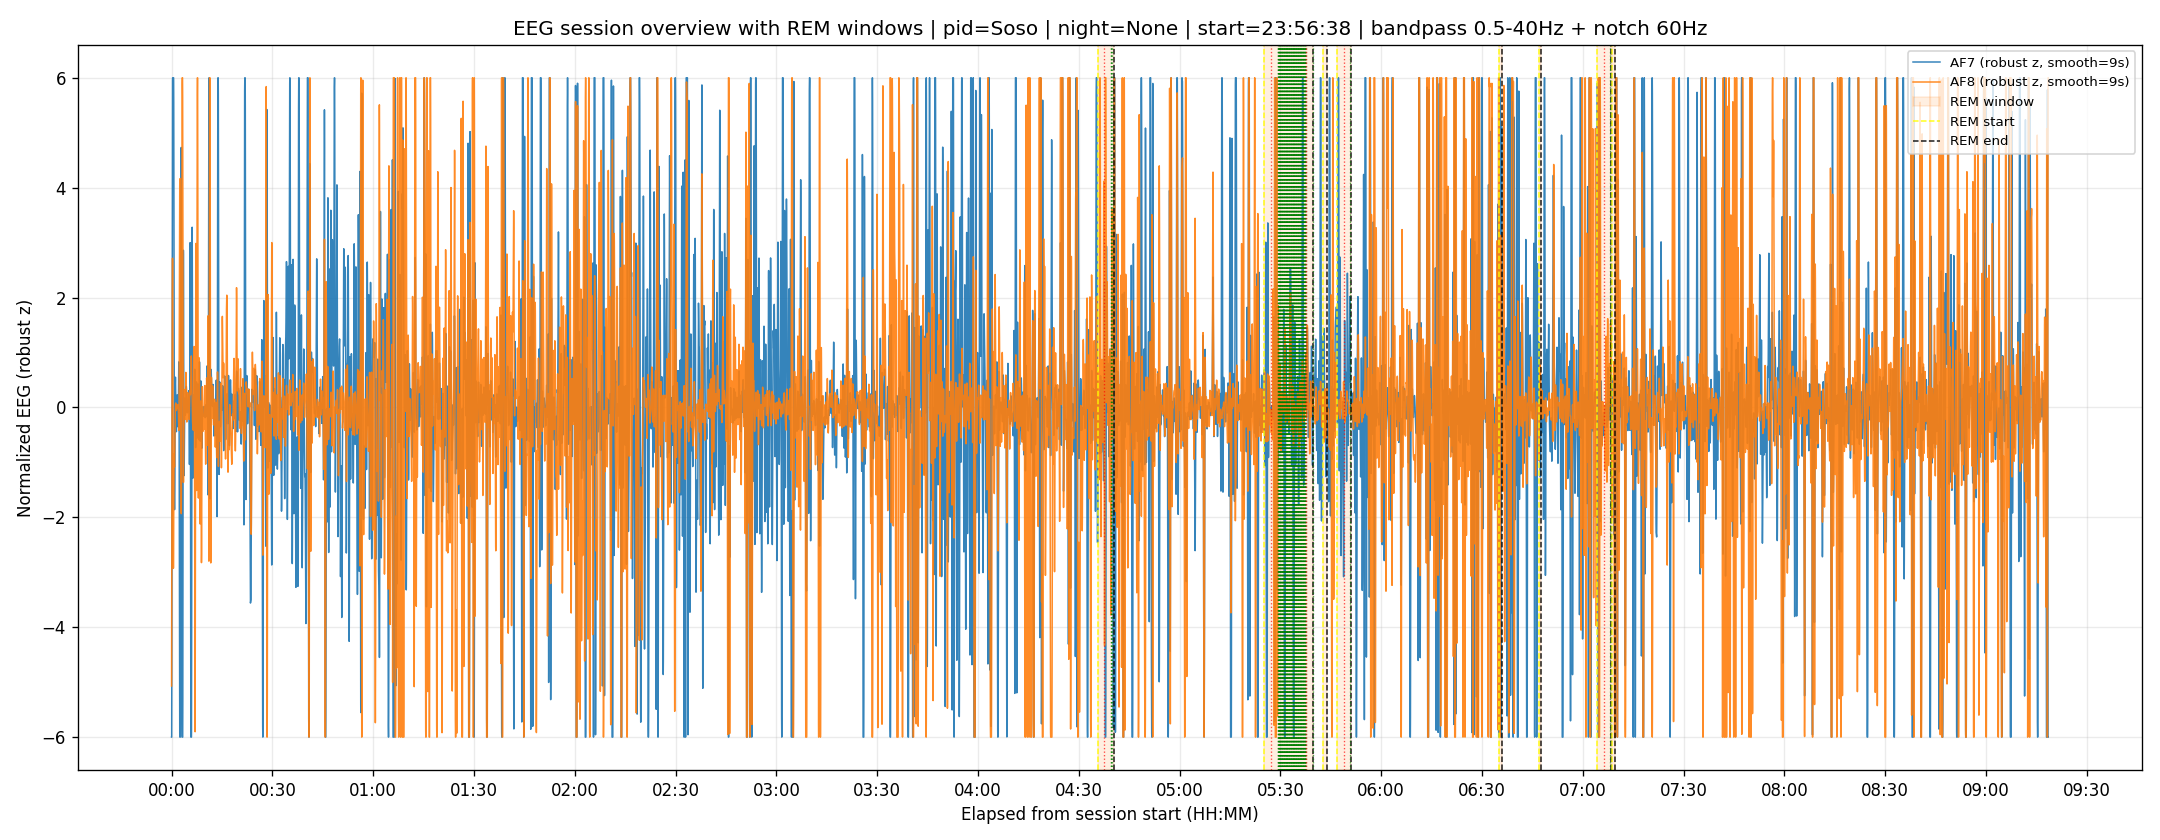
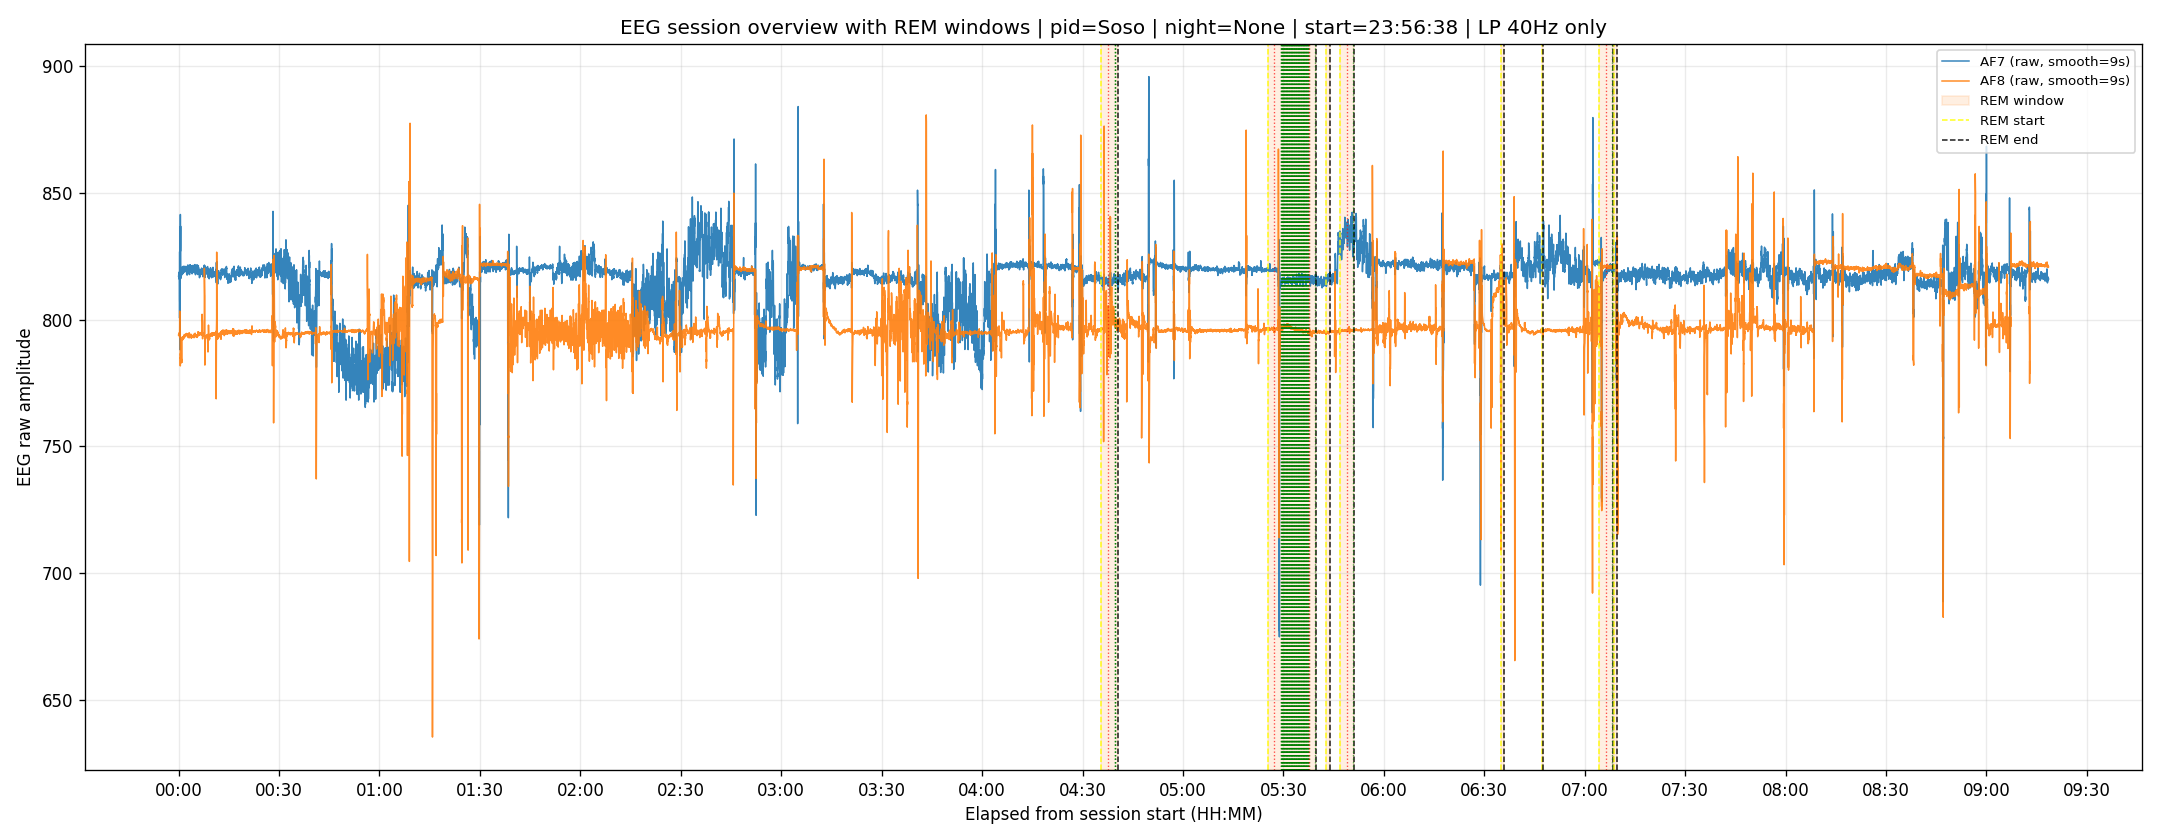
REM logic adapted

diff --git a/plot/plot_eeg_rem.py b/plot/plot_eeg_rem.py
@@ -4,7 +4,7 @@ Plot EEG by REM phase.
 
 For each REM episode (optionally only those with both disruptive+induction cues):
 - x-axis: clock time during the REM phase
-- y-axis: EEG RAW_AF7 and RAW_AF8
+- y-axis: EEG RAW_AF7 and RAW_AF8 (raw with optional LP only)
 - cue markers/labels overlaid at cue times
 """
 
@@ -41,19 +41,6 @@ def in_wrapped_window(sec_of_day: float, start_sec: float, end_sec: float) -> bo
     if end_sec >= start_sec:
         return start_sec <= sec_of_day <= end_sec
     return sec_of_day >= start_sec or sec_of_day <= end_sec
-
-
-def robust_zscore(series: pd.Series) -> pd.Series:
-    """Robust centering/scaling (median + MAD), common for EEG visualization."""
-    vals = pd.to_numeric(series, errors="coerce").astype(float)
-    med = float(np.nanmedian(vals))
-    mad = float(np.nanmedian(np.abs(vals - med)))
-    scale = 1.4826 * mad
-    if not np.isfinite(scale) or scale < 1e-9:
-        scale = float(np.nanstd(vals))
-    if not np.isfinite(scale) or scale < 1e-9:
-        scale = 1.0
-    return (vals - med) / scale
 
 
 def format_elapsed_hms(seconds: float) -> str:
@@ -190,13 +177,13 @@ def main() -> None:
     p.add_argument("--plot-mode", choices=["overview", "per-rem", "both"], default="both", help="overview: full session; per-rem: one panel per REM episode; both: generate both plots")
     p.add_argument("--max-points", type=int, default=40000, help="Max plotted points in session overview")
     p.add_argument("--overview-smooth-sec", type=int, default=9, help="Rolling smoothing window (seconds) for overview only; 1 disables extra smoothing")
-    p.add_argument("--bandpass-low-hz", type=float, default=0.5, help="Bandpass low cutoff in Hz")
-    p.add_argument("--bandpass-high-hz", type=float, default=40.0, help="Bandpass high cutoff in Hz")
-    p.add_argument("--notch-hz", type=float, default=60.0, help="Notch frequency in Hz (<=0 disables notch)")
-    p.add_argument("--notch-q", type=float, default=30.0, help="Notch filter Q factor")
+    p.add_argument("--bandpass-low-hz", type=float, default=0.5, help="Deprecated (kept for CLI compatibility)")
+    p.add_argument("--bandpass-high-hz", type=float, default=40.0, help="Deprecated (kept for CLI compatibility)")
+    p.add_argument("--notch-hz", type=float, default=60.0, help="Deprecated (kept for CLI compatibility)")
+    p.add_argument("--notch-q", type=float, default=30.0, help="Deprecated (kept for CLI compatibility)")
     p.add_argument("--per-rem-lowpass-hz", type=float, default=40.0, help="Low-pass cutoff in Hz for per-REM plotting")
-    p.add_argument("--per-rem-pre-sec", type=int, default=60, help="Seconds shown before REM start in per-rem mode")
-    p.add_argument("--per-rem-post-sec", type=int, default=60, help="Seconds shown after REM end in per-rem mode")
+    p.add_argument("--per-rem-pre-sec", type=int, default=180, help="Seconds shown before REM start in per-rem mode")
+    p.add_argument("--per-rem-post-sec", type=int, default=180, help="Seconds shown after REM end in per-rem mode")
     p.add_argument("--output", default=None)
     args = p.parse_args()
     night_suffix = f"_night{args.night_number}" if args.night_number is not None else ""
@@ -288,19 +275,13 @@ def main() -> None:
     )
     eeg = eeg.dropna(subset=["TimeStamp"]).sort_values("TimeStamp").reset_index(drop=True)
     fs_hz = estimate_sampling_hz(eeg["TimeStamp"])
-    filter_applied = False
     af7_col = "RAW_AF7"
     af8_col = "RAW_AF8"
-    if fs_hz is not None and fs_hz > 2.5:
-        eeg["RAW_AF7_filt"] = bandpass_notch_filter(
-            eeg["RAW_AF7"], fs_hz, args.bandpass_low_hz, args.bandpass_high_hz, args.notch_hz, args.notch_q
-        )
-        eeg["RAW_AF8_filt"] = bandpass_notch_filter(
-            eeg["RAW_AF8"], fs_hz, args.bandpass_low_hz, args.bandpass_high_hz, args.notch_hz, args.notch_q
-        )
-        af7_col = "RAW_AF7_filt"
-        af8_col = "RAW_AF8_filt"
-        filter_applied = True
+    if fs_hz is not None and fs_hz > 2.5 and args.per_rem_lowpass_hz > 0:
+        eeg["RAW_AF7_lp"] = lowpass_filter(eeg["RAW_AF7"], fs_hz, args.per_rem_lowpass_hz)
+        eeg["RAW_AF8_lp"] = lowpass_filter(eeg["RAW_AF8"], fs_hz, args.per_rem_lowpass_hz)
+        af7_col = "RAW_AF7_lp"
+        af8_col = "RAW_AF8_lp"
     eeg["sec_of_day"] = (
         eeg["TimeStamp"].dt.hour * 3600
         + eeg["TimeStamp"].dt.minute * 60
@@ -339,12 +320,8 @@ def main() -> None:
         RAW_AF7=(af7_col, "mean"),
         RAW_AF8=(af8_col, "mean"),
     )
-    if fs_hz is not None and fs_hz > 2.5 and args.per_rem_lowpass_hz > 0:
-        agg["RAW_AF7"] = lowpass_filter(agg["RAW_AF7"], fs_hz, args.per_rem_lowpass_hz)
-        agg["RAW_AF8"] = lowpass_filter(agg["RAW_AF8"], fs_hz, args.per_rem_lowpass_hz)
-
-    agg["AF7_plot"] = robust_zscore(agg["RAW_AF7"]).clip(-6, 6)
-    agg["AF8_plot"] = robust_zscore(agg["RAW_AF8"]).clip(-6, 6)
+    agg["AF7_plot"] = pd.to_numeric(agg["RAW_AF7"], errors="coerce")
+    agg["AF8_plot"] = pd.to_numeric(agg["RAW_AF8"], errors="coerce")
     smooth_win = max(1, int(args.overview_smooth_sec))
     agg["AF7_overview"] = agg["AF7_plot"].rolling(window=smooth_win, center=True, min_periods=1).mean()
     agg["AF8_overview"] = agg["AF8_plot"].rolling(window=smooth_win, center=True, min_periods=1).mean()
@@ -356,12 +333,10 @@ def main() -> None:
     rem_episode_ids = set(rem_df["episode_index"].astype(int).tolist())
     cues_sess = cue_df[cue_df["episode_index"].astype(int).isin(rem_episode_ids)].copy()
 
-    perrem_lp_applied = fs_hz is not None and fs_hz > 2.5 and args.per_rem_lowpass_hz > 0
-
     if args.plot_mode in ("overview", "both"):
         fig, ax = plt.subplots(figsize=(18, 7))
-        ax.plot(agg["elapsed_bin"], agg["AF7_overview"], color="tab:blue", linewidth=0.9, alpha=0.9, label=f"AF7 (robust z, smooth={smooth_win}s)")
-        ax.plot(agg["elapsed_bin"], agg["AF8_overview"], color="tab:orange", linewidth=0.9, alpha=0.9, label=f"AF8 (robust z, smooth={smooth_win}s)")
+        ax.plot(agg["elapsed_bin"], agg["AF7_overview"], color="tab:blue", linewidth=0.9, alpha=0.9, label=f"AF7 (raw, smooth={smooth_win}s)")
+        ax.plot(agg["elapsed_bin"], agg["AF8_overview"], color="tab:orange", linewidth=0.9, alpha=0.9, label=f"AF8 (raw, smooth={smooth_win}s)")
 
         # REM windows over full session timeline.
         first_rem_label = True
@@ -403,12 +378,12 @@ def main() -> None:
         ax.set_xticks(ticks)
         ax.set_xticklabels([format_elapsed_hms(t)[:5] for t in ticks], rotation=0)
 
-        filt_tag = f"bandpass {args.bandpass_low_hz:g}-{args.bandpass_high_hz:g}Hz + notch {args.notch_hz:g}Hz" if filter_applied else "no extra filter"
+        filt_tag = f"LP {args.per_rem_lowpass_hz:g}Hz only" if (fs_hz is not None and fs_hz > 2.5 and args.per_rem_lowpass_hz > 0) else "raw (no filter)"
         ax.set_title(
             f"EEG session overview with REM windows | pid={args.pid} | night={args.night_number} | start={session_start_hms} | {filt_tag}"
         )
         ax.set_xlabel("Elapsed from session start (HH:MM)")
-        ax.set_ylabel("Normalized EEG (robust z)")
+        ax.set_ylabel("EEG raw amplitude")
         ax.grid(True, alpha=0.25)
         ax.legend(loc="upper right", fontsize=8)
         fig.tight_layout()
@@ -417,7 +392,7 @@ def main() -> None:
         print(f"REM rows considered: {len(rem_df)}")
         print(f"Session points plotted: {len(agg)}")
         if fs_hz is not None:
-            print(f"Estimated sampling rate: {fs_hz:.2f} Hz | filter_applied={filter_applied}")
+            print(f"Estimated sampling rate: {fs_hz:.2f} Hz")
         plt.close(fig)
 
     if args.plot_mode in ("per-rem", "both"):
@@ -464,9 +439,11 @@ def main() -> None:
                 continue
             plotted_count += 1
             relx = seg["elapsed_bin"] - win_start_x
-            lp_tag = f", LP {args.per_rem_lowpass_hz:g}Hz" if perrem_lp_applied else ""
-            ax.plot(relx, seg["AF7_plot"], color="tab:blue", linewidth=0.9, alpha=0.9, label=f"AF7 (robust z{lp_tag})")
-            ax.plot(relx, seg["AF8_plot"], color="tab:orange", linewidth=0.9, alpha=0.9, label=f"AF8 (robust z{lp_tag})")
+            label_suffix = "raw"
+            if fs_hz is not None and fs_hz > 2.5 and args.per_rem_lowpass_hz > 0:
+                label_suffix = f"raw, LP {args.per_rem_lowpass_hz:g}Hz"
+            ax.plot(relx, seg["AF7_plot"], color="tab:blue", linewidth=0.9, alpha=0.9, label=f"AF7 ({label_suffix})")
+            ax.plot(relx, seg["AF8_plot"], color="tab:orange", linewidth=0.9, alpha=0.9, label=f"AF8 ({label_suffix})")
             rem_start_rel = rem_start_x - win_start_x
             rem_end_rel = rem_end_x - win_start_x
             ax.axvspan(rem_start_rel, rem_end_rel, alpha=0.12, color="tab:orange", label="REM window")
@@ -497,10 +474,9 @@ def main() -> None:
                     cue_label = "Induction cue" + tr_suffix
                     first_induction = False
                 ax.axvline(cue_x, color=col, linestyle=":", linewidth=0.9, alpha=0.85, label=cue_label)
-                ax.scatter([cue_x], [2.8], s=12, color=col, zorder=4)
 
             dur = max(1, int(round(win_end_x - win_start_x)))
-            step = 30 if dur <= 240 else 60
+            step = 30
             ticks = np.arange(0, dur + step, step)
             ax.set_xticks(ticks)
             ax.set_xticklabels(
@@ -511,7 +487,7 @@ def main() -> None:
             )
             ax.set_title(f"REM #{ep_idx} | {ep.get('episode_start_boston','')} -> {ep.get('episode_end_boston','')}", fontsize=9)
             ax.set_xlabel("Clock time (Boston)")
-            ax.set_ylabel("Normalized EEG (robust z)")
+            ax.set_ylabel("EEG raw amplitude")
             ax.grid(True, alpha=0.25)
             ax.legend(loc="upper right", fontsize=7)
         for j in range(len(rem_plot_df), len(axes)):

diff --git a/plot/plot_motion_rem.py b/plot/plot_motion_rem.py
@@ -117,8 +117,8 @@ def main() -> None:
     parser.add_argument("--session-start-boston", default=None, help="HH:MM:SS")
     parser.add_argument("--plot-mode", choices=["overview", "per-rem", "both"], default="both")
     parser.add_argument("--both-phases-only", action="store_true", help="Only keep REM episodes that have both disruptive and induction cues")
-    parser.add_argument("--per-rem-pre-sec", type=int, default=60, help="Seconds shown before REM start in per-rem mode")
-    parser.add_argument("--per-rem-post-sec", type=int, default=60, help="Seconds shown after REM end in per-rem mode")
+    parser.add_argument("--per-rem-pre-sec", type=int, default=180, help="Seconds shown before REM start in per-rem mode")
+    parser.add_argument("--per-rem-post-sec", type=int, default=180, help="Seconds shown after REM end in per-rem mode")
     parser.add_argument("--output", default=None)
     args = parser.parse_args()
 
@@ -263,14 +263,12 @@ def main() -> None:
                 if cs < FOUR_HOURS_SECONDS:
                     continue
                 ct = sec_to_time.get(cs)
-                cv = sec_to_val.get(cs)
-                if ct is None or cv is None:
+                if ct is None:
                     continue
                 ctype = c["cue_type"] if c["cue_type"] in cue_color else "induction"
                 label = f"{ctype} cue" if cue_first.get(ctype, False) else None
                 cue_first[ctype] = False
                 ax_o.axvline(ct, color=cue_color.get(ctype, "tab:purple"), linestyle=":", linewidth=1.0, alpha=0.8, label=label)
-                ax_o.scatter([ct], [round(cv, 3)], color=cue_color.get(ctype, "tab:purple"), s=12, zorder=4)
         # Zoom y-axis for readability while keeping full peak visibility.
         y_zoom_ref = sorted(y_all)
         lo_idx = max(0, int(0.01 * (len(y_zoom_ref) - 1)))
@@ -353,26 +351,18 @@ def main() -> None:
                 if cs < win_start_sec or cs > win_end_sec:
                     continue
                 ct = sec_to_time.get(cs)
-                cv = sec_to_val.get(cs)
-                if ct is None or cv is None:
+                if ct is None:
                     continue
                 ccol = cue_color.get(c["cue_type"], "tab:purple")
                 ctype = c["cue_type"] if c["cue_type"] in cue_color else "induction"
                 clabel = f"{ctype} cue" if cue_first.get(ctype, False) else None
                 cue_first[ctype] = False
                 ax.axvline(ct, color=ccol, linestyle=":", linewidth=1.0, alpha=0.9, label=clabel)
-                ax.scatter([ct], [round(cv, 3)], color=ccol, s=24, zorder=5)
             ax.set_title(f"REM #{ep_idx} | {ep['start_clock']} -> {ep['end_clock']} | dur={ep['dur_sec']}s", fontsize=9)
             ax.set_xlabel("Time (Boston)")
             ax.set_ylabel("motion_smoothed")
             ax.grid(True, alpha=0.25)
-            win_dur = max(1, win_end_sec - win_start_sec)
-            if win_dur <= 120:
-                ax.xaxis.set_major_locator(mdates.SecondLocator(interval=10))
-            elif win_dur <= 300:
-                ax.xaxis.set_major_locator(mdates.SecondLocator(interval=30))
-            else:
-                ax.xaxis.set_major_locator(mdates.MinuteLocator(interval=1))
+            ax.xaxis.set_major_locator(mdates.SecondLocator(interval=30))
             ax.xaxis.set_major_formatter(mdates.DateFormatter("%H:%M:%S"))
             ax.tick_params(axis="x", labelrotation=30, labelsize=8)
             ax.legend(loc="upper right", fontsize=7)
